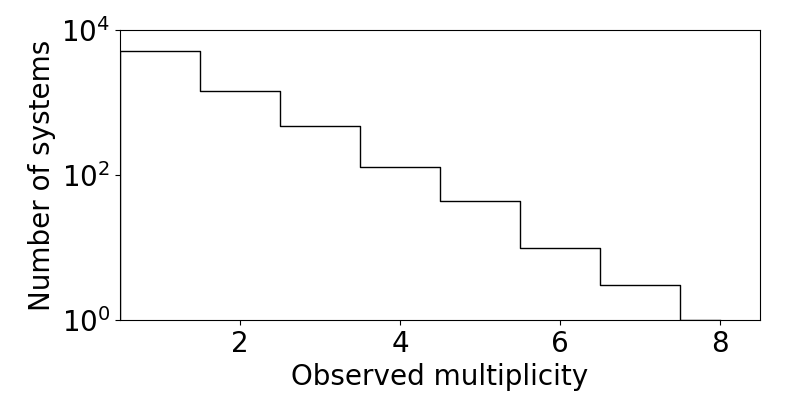
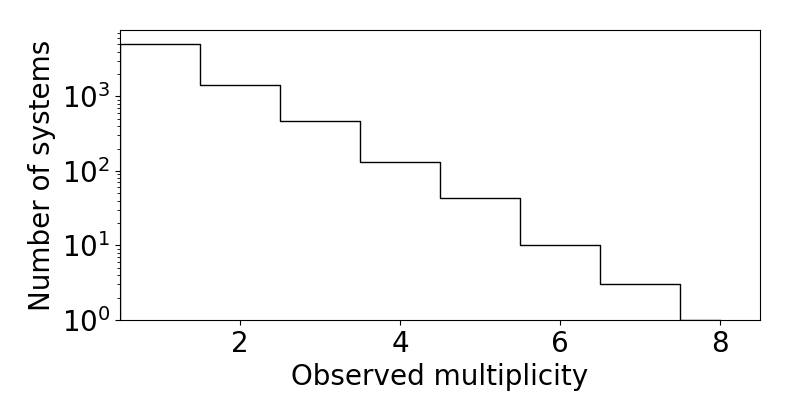
Update histograms tutorial with more examples and figures

diff --git a/docs/source/histograms.rst b/docs/source/histograms.rst
@@ -23,10 +23,10 @@ On the previous page, you learned how to load a catalog (physical and observed).
    fig_size = (8,4) # size of each figure (width, height)
 
    # To plot a histogram of the observed multiplicities (number of planets per system):
-   ax = plot_fig_counts_hist_simple(fig_size, [sss_per_sys['Mtot_obs']], [], x_min=0, x_max=8, y_min=1, y_max=1e4, x_llim=0.5, log_y=True, xlabel_text='Observed multiplicity', ylabel_text='Number of systems')
+   ax = plot_fig_counts_hist_simple(fig_size, [sss_per_sys['Mtot_obs']], [], x_min=0, x_max=8, x_llim=0.5, log_y=True, xlabel_text='Observed multiplicity', ylabel_text='Number of systems')
 
    # To plot a histogram of the observed orbital periods:
-   ax = plot_fig_pdf_simple(fig_size, [sss['P_obs']], [], x_min=3., x_max=300., y_min=10, y_max=250, normalize=False, log_x=True, log_y=True, xticks_custom=[3,10,30,100,300], xlabel_text=r'$P$ (days)', ylabel_text='Number of planets')
+   ax = plot_fig_pdf_simple(fig_size, [sss['P_obs']], [], x_min=3., x_max=300., normalize=False, log_x=True, log_y=True, xticks_custom=[3,10,30,100,300], xlabel_text=r'$P$ (days)', ylabel_text='Number of planets')
 
    plt.show()
 
@@ -56,29 +56,94 @@ For continuous distributions (such as the period distribution), the :py:func:`pl
 Plotting multiple catalogs
 --------------------------
 
-Here is a example of how to over-plot the Kepler catalog with an observed catalog:
+The third argument (empty list ``[]`` in the above examples) allows you to easily over-plot the Kepler catalog with a simulated observed catalog. Here is an example:
 
 .. code-block:: python
+
+   N_sim, cos_factor, P_min, P_max, radii_min, radii_max = read_targets_period_radius_bounds(load_dir + 'periods.out')
+
+   # Load the Kepler catalog first:
+   ssk_per_sys, ssk = compute_summary_stats_from_Kepler_catalog(P_min, P_max, radii_min, radii_max)
 
    # To plot a histogram of the observed multiplicities (number of planets per system):
    ax = plot_fig_counts_hist_simple(fig_size, [sss_per_sys['Mtot_obs']], [ssk_per_sys['Mtot_obs']], x_min=0, x_max=9, y_max=1, x_llim=0.5, normalize=True, log_y=True, xlabel_text='Observed multiplicity', ylabel_text='Fraction', legend=True)
 
    # To plot a histogram of the observed orbital periods:
-   ax = plot_fig_pdf_simple(fig_size, [sss['P_obs']], [ssk['P_obs']], x_min=3., x_max=300., y_min=1e-3, y_max=0.03, log_x=True, log_y=True, xticks_custom=[3,10,30,100,300], xlabel_text=r'$P$ (days)')
+   ax = plot_fig_pdf_simple(fig_size, [sss['P_obs']], [ssk['P_obs']], x_min=3., x_max=300., log_x=True, log_y=True, xticks_custom=[3,10,30,100,300], xlabel_text=r'$P$ (days)', legend=True)
+
+   plt.show()
+
+.. figure:: images/example_hist_mult_with_Kep.png
+   :scale: 50 %
+   :alt: Simulated and Kepler multiplicity distributions
+   :align: center
+
+   The observed multiplicity distribution of a simulated catalog compared to the Kepler catalog.
+
+.. figure:: images/example_hist_periods_with_Kep.png
+   :scale: 50 %
+   :alt: Simulated and Kepler period distributions
+   :align: center
+
+   The observed period distribution of a simulated catalog compared to the Kepler catalog.
+
+Note that we've set ``legend=True`` to tell which is which! The ``normalize=True`` option is also useful when the catalogs have different numbers of systems (in this case, the simulated catalog has five times as many targets as the Kepler catalog).
+
+You can also plot multiple simulated (and Kepler) catalogs simultaneously by simply adding them to the lists:
+
+.. code-block:: python
+
+   # Load two separate simulated-observed catalogs,
+   # both of which are in the same 'load_dir',
+   # with run numbers '1' and '2'.
+   sss_per_sys1, sss1 = compute_summary_stats_from_cat_obs(file_name_path=load_dir, run_number='1')
+   sss_per_sys2, sss2 = compute_summary_stats_from_cat_obs(file_name_path=load_dir, run_number='2')
+
+   # To plot histograms of the observed orbital periods:
+   ax = plot_fig_pdf_simple(fig_size, [sss1['P_obs'], sss2['P_obs']], [], x_min=3., x_max=300., log_x=True, log_y=True, c_sim=['k','r'], ls_sim=['-','-'], labels_sim=['Catalog 1', 'Catalog 2'], xticks_custom=[3,10,30,100,300], xlabel_text=r'$P$ (days)', legend=True)
+
+   plt.show()
+
+.. figure:: images/example_hist_periods_multiple.png
+   :scale: 50 %
+   :alt: Multiple simulated period distributions
+   :align: center
+
+   The observed period distributions of two simulated catalogs.
+
+.. note::
+
+   You also need to pass lists for the optional arguments ``c_sim``, ``ls_sim``, and ``labels_sim`` to define the color, line-style, and legend label, respectively, for each catalog that you are plotting!
 
 
 Plotting CDFs
 -------------
 
-Similarly, you can use the following functions to plot (empirical) cumulative distribution functions (CDFs):
+Similarly, we also provide the following functions for plotting cumulative distribution functions (CDFs):
 
 .. code-block:: python
 
    # To plot a CDF of the observed multiplicities:
-   ax = plot_fig_mult_cdf_simple(fig_size, [sss_per_sys['Mtot_obs']], [], y_min=0.6, y_max=1., xlabel_text='Observed planets per system')
+   ax = plot_fig_mult_cdf_simple(fig_size, [sss_per_sys['Mtot_obs']], [ssk_per_sys['Mtot_obs']], y_min=0.6, y_max=1., xlabel_text='Observed planets per system', legend=True)
 
    # To plot a CDF of the observed orbital periods:
-   ax = plot_fig_cdf_simple(fig_size, [sss['P_obs']], [], x_min=3., x_max=300., log_x=True, xticks_custom=[3,10,30,100,300], xlabel_text=r'$P$ (days)')
+   ax = plot_fig_cdf_simple(fig_size, [sss['P_obs']], [ssk['P_obs']], x_min=3., x_max=300., log_x=True, xticks_custom=[3,10,30,100,300], xlabel_text=r'$P$ (days)', legend=True)
+
+   plt.show()
+
+.. figure:: images/example_cdf_mult_with_Kep.png
+   :scale: 50 %
+   :alt: Simulated and Kepler multiplicity CDFs
+   :align: center
+
+   Cumulative distributions of observed multiplicity for a simulated catalog compared to the Kepler catalog.
+
+.. figure:: images/example_cdf_periods_with_Kep.png
+   :scale: 50 %
+   :alt: Simulated and Kepler period CDFs
+   :align: center
+
+   Cumulative distributions of observed period for a simulated catalog compared to the Kepler catalog.
 
 
 Comparing catalogs
